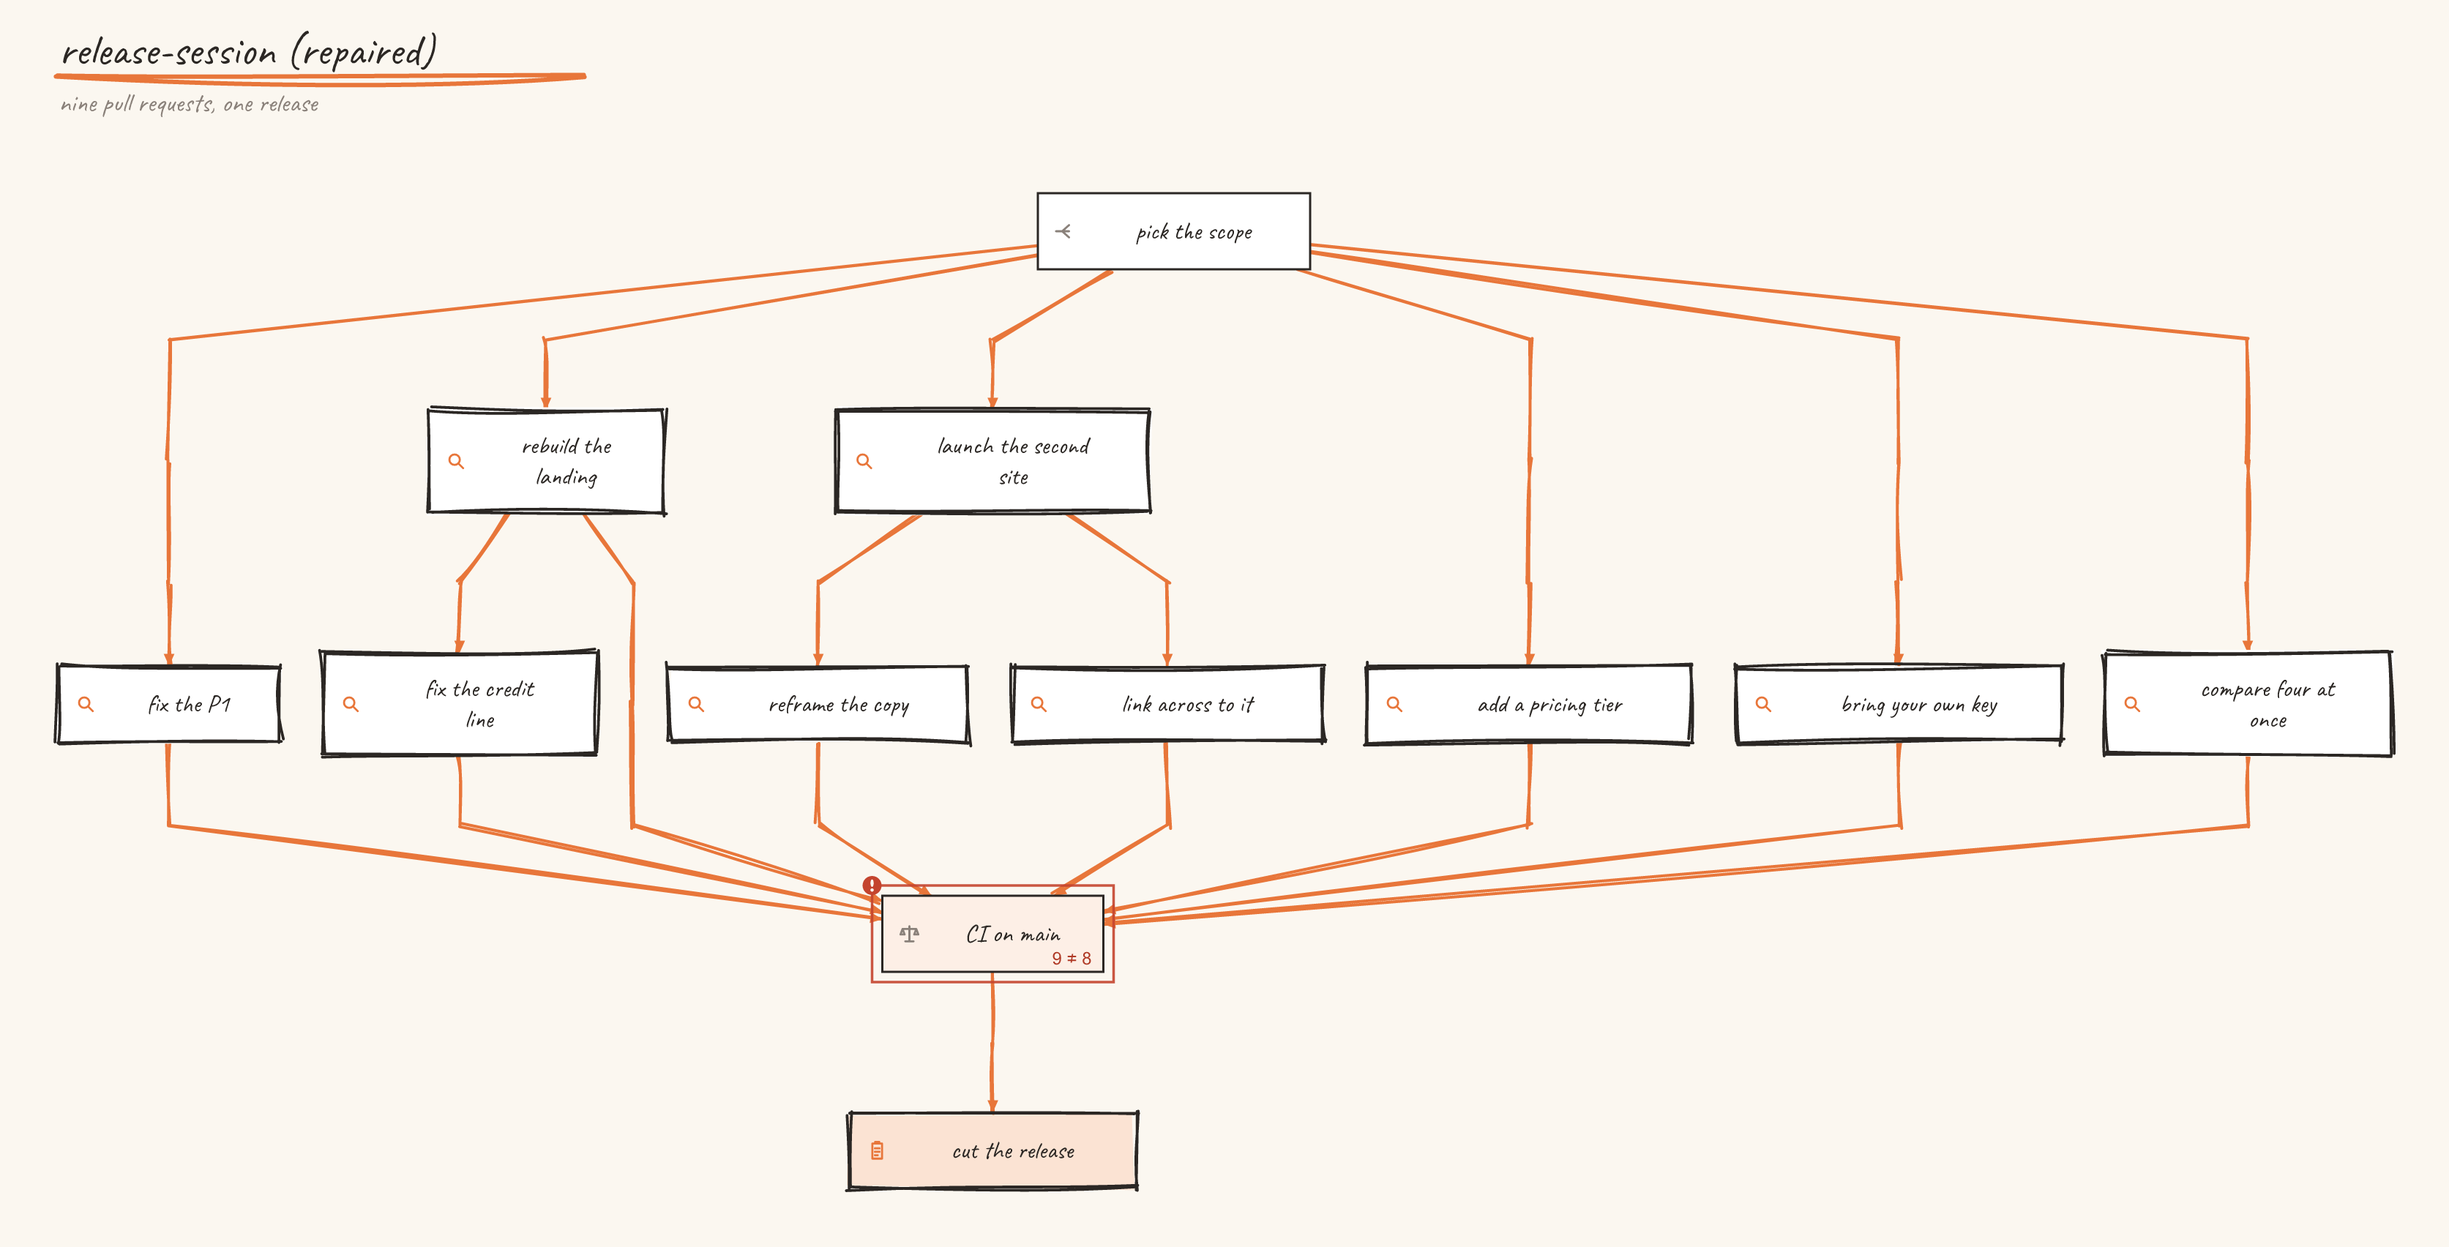
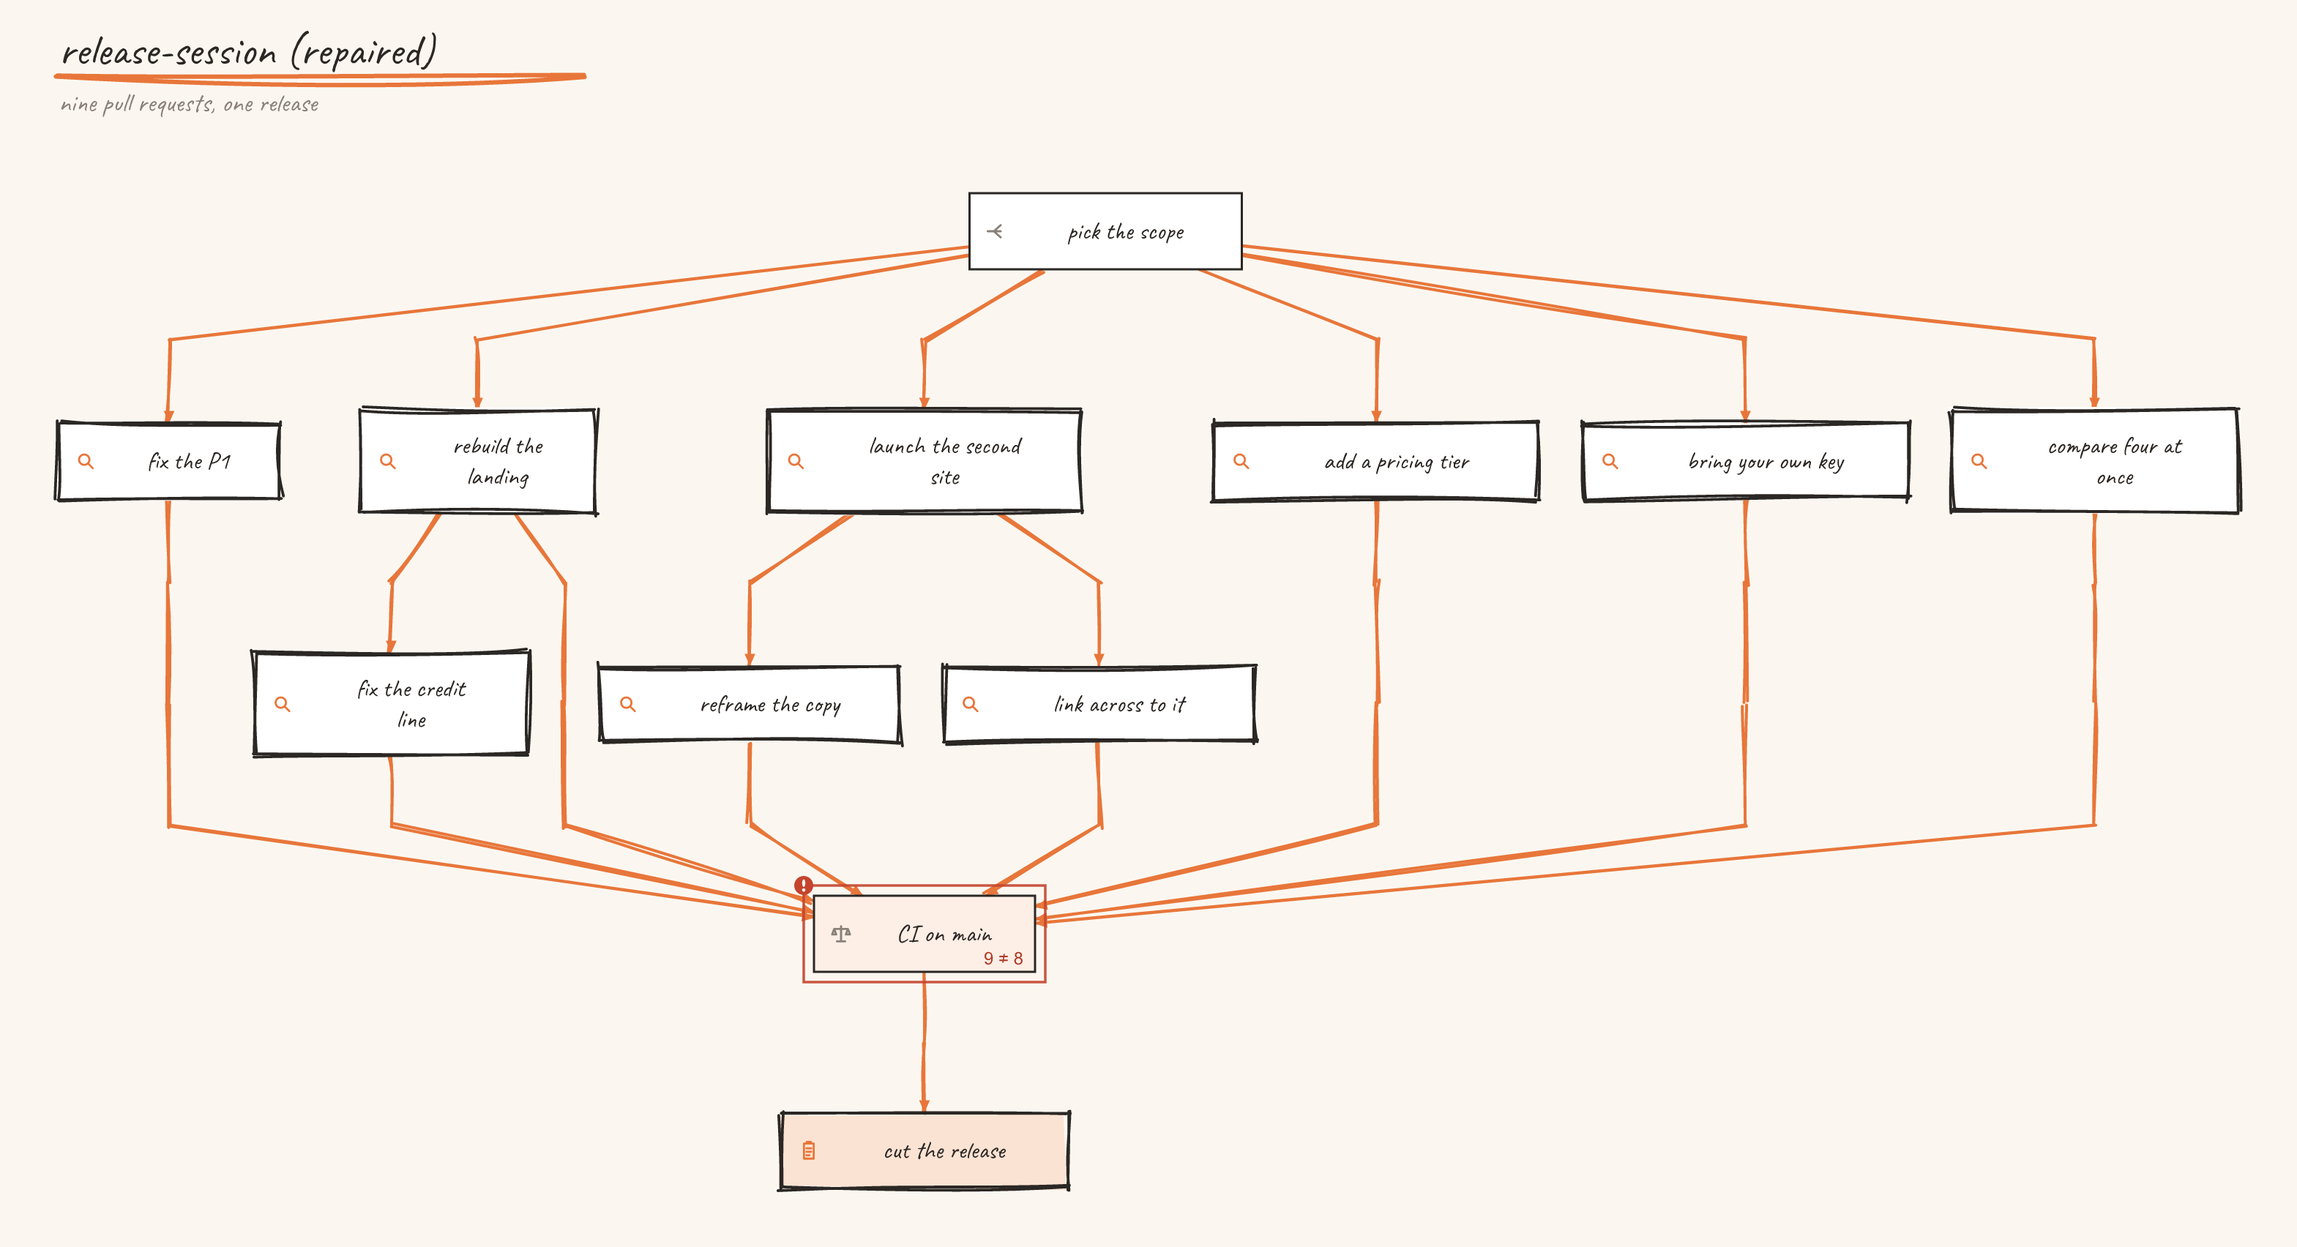
fix(layout) — draw every step on the row of its wave
dagre's longest-path ranker counts from the sinks, so a step nothing waits on
for a while sank to sit just above whatever reads it, a row or more below the
wave core ranks it in, and the legend's number disagreed with the row. Layout
now hands dagre core's ranks through a ranker of its own, reading dagre's
label stride off the edges, so pictures without such a step are unchanged to
the byte.

The structural check reads each box's row back off the rendered SVG and fails
when it is not the step's wave, and it now runs over every spec in the
repository: the examples, every test fixture and the plugin's template. The
repaired release-session picture is redrawn.

diff --git a/packages/render-svg/test/structure.test.ts b/packages/render-svg/test/structure.test.ts
@@ -1,5 +1,5 @@
 // SPDX-License-Identifier: Apache-2.0
-import { readdirSync } from "node:fs";
+import { existsSync, readdirSync } from "node:fs";
 import { fileURLToPath } from "node:url";
 import { buildGraph, parseSpec, withEdges, type Graph } from "@ccgrapher/core";
 import { loadGraph } from "@ccgrapher/core/node";
@@ -28,6 +28,25 @@ const desks = fileURLToPath(new URL("../../lint/test/fixtures/research-desk/", i
 const deskSpecs = readdirSync(desks)
   .filter((f) => f.endsWith(".yaml"))
   .map((f) => f.replace(/\.yaml$/, ""))
+  .sort();
+
+const root = fileURLToPath(new URL("../../../", import.meta.url));
+
+/** Every other spec in the repository: test fixtures anywhere, and the plugin's template. */
+const fixtureDirs = (["packages", "apps"] as const).flatMap((top) =>
+  readdirSync(`${root}${top}`)
+    .map((pkg) => `${root}${top}/${pkg}/test/fixtures/`)
+    .filter((dir) => existsSync(dir)),
+);
+const others = [
+  ...fixtureDirs.flatMap((dir) =>
+    readdirSync(dir, { recursive: true, encoding: "utf8" }).map((f) => `${dir}${f}`),
+  ),
+  ...readdirSync(`${root}plugin/skills`, { recursive: true, encoding: "utf8" }).map((f) => `${root}plugin/skills/${f}`),
+]
+  .filter((f) => f.endsWith(".yaml"))
+  .filter((f) => !f.startsWith(variants) && !f.startsWith(desks))
+  .map((f) => f.slice(root.length).replace(/\.yaml$/, ""))
   .sort();
 
 interface Render {
@@ -232,6 +251,7 @@ describe("structural lint over every example", () => {
     ...specs.flatMap((n) => renders(n)),
     ...variantSpecs.flatMap((n) => renders(n, variants)),
     ...deskSpecs.flatMap((n) => renders(n, desks)),
+    ...others.flatMap((n) => renders(n, root)),
     ...crowded(),
   ];
 
@@ -239,6 +259,13 @@ describe("structural lint over every example", () => {
     expect(specs.length).toBeGreaterThanOrEqual(6);
     expect(all.some((r) => r.label.endsWith("(repaired)"))).toBe(true);
     expect(all.some((r) => r.label.endsWith("(plain)"))).toBe(true);
+  });
+
+  it("covers every other spec in the repository too: the test fixtures and the plugin's template", () => {
+    expect(others).toContain("packages/lint/test/fixtures/ledger/plan-guarded");
+    expect(others).toContain("apps/cli/test/fixtures/run-gate");
+    expect(others).toContain("plugin/skills/parallel-plan/template");
+    for (const name of others) expect(all.some((r) => r.label === name)).toBe(true);
   });
 
   it("draws a mark for every rule somewhere in the suite, so the marks are checked too", () => {
@@ -268,6 +295,7 @@ describe("structural lint over every example", () => {
     ...specs.flatMap((n) => renders(n)),
     ...variantSpecs.flatMap((n) => renders(n, variants)),
     ...deskSpecs.flatMap((n) => renders(n, desks)),
+    ...others.flatMap((n) => renders(n, root)),
     ...crowded(),
   ];
     expect(again.map((r) => r.svg)).toEqual(all.map((r) => r.svg));
@@ -346,6 +374,12 @@ describe("the checker sees the real markup", () => {
     const end = svg.indexOf('<g data-node="audit"');
     const ghost = svg.slice(start, end).replace('data-node="discover"', 'data-node="ghost"');
     expect(geometry(svg.slice(0, end) + ghost + svg.slice(end)).map(keyOf)).toContain("node-overlap|discover / ghost");
+  });
+
+  it("flags a step drawn off the row of its wave", () => {
+    const moved = svg.replace(/(<g data-node="discover" [^>]*data-rank=")0"/, '$11"');
+    expect(moved).not.toBe(svg);
+    expect(geometry(moved).map(keyOf)).toContain("off-row|discover");
   });
 
   it("flags a label longer than its box", () => {

diff --git a/packages/render-svg/test/svg-structure.ts b/packages/render-svg/test/svg-structure.ts
@@ -2,7 +2,8 @@
 //
 // A structural lint over the SVG that `renderSvg` produces. It reads the markup
 // back and asks whether the picture is well formed: boxes apart, routes clear of
-// boxes, labels and text inside what holds them, colours readable. Core computes
+// boxes, labels and text inside what holds them, every step on the row of its
+// wave, colours readable. Core computes
 // ranks and layout computes pixels, so most of these faults should be impossible;
 // this exists to prove it, and to say so loudly the day a change breaks it.
 //
@@ -17,6 +18,7 @@ export type Rule =
   | "text-overflow"
   | "step-collision"
   | "legend-overlap"
+  | "off-row"
   | "contrast";
 
 export interface Violation {
@@ -31,6 +33,8 @@ export const keyOf = (v: Violation): string => `${v.rule}|${v.subject}`;
 
 /** Pixels of give for stroke width and the few px rough.js wobbles outside a nominal box. */
 const TOLERANCE = 3;
+/** Box centres closer than this share a row: rough.js wobble, not a separate row, which is a rank gap away. */
+const ROW_SLACK = 12;
 /** Advance width per character, as a fraction of font size: what `measureNode` plans with. */
 const BODY_CHAR_RATIO = DEFAULT_METRICS.charRatio;
 /** The header's own heuristic in render.ts (`HEADER_CHAR_RATIO`), which is not exported. */
@@ -166,6 +170,8 @@ interface SceneNode {
   /** Offset of the group that holds it, to bring layout coordinates into svg space. */
   readonly dx: number;
   readonly dy: number;
+  /** The wave core ranks it in (`data-rank`), when the markup says. */
+  readonly rank: number | undefined;
   /** The painted outline, as drawn. */
   readonly frame: Box;
   /** The fan-out copies and worktree halo drawn around the box. */
@@ -249,6 +255,7 @@ function readNode(g: El, dx: number, dy: number): SceneNode {
     id: g.attrs["data-node"]!,
     dx,
     dy,
+    rank: g.attrs["data-rank"] === undefined ? undefined : Number(g.attrs["data-rank"]),
     frame,
     extras,
     footprint: union([frame, ...extras]),
@@ -455,7 +462,31 @@ function checkGeometry(scene: Scene): Violation[] {
       }
     }
   }
+  out.push(...checkRows(scene));
   out.push(...checkSteps(scene));
+  return out;
+}
+
+/**
+ * Rows are read off the picture, not the layout: boxes whose centres sit within a
+ * few pixels of each other share a row (dagre centres a row, so boxes of different
+ * heights still line up), and rows count down from the top. Every step must be
+ * drawn on the row of its wave, the rank core gave it, or the picture and the
+ * legend's numbers disagree.
+ */
+function checkRows(scene: Scene): Violation[] {
+  const centre = (n: SceneNode) => (n.frame.y0 + n.frame.y1) / 2;
+  const ranked = scene.nodes.filter((n) => n.rank !== undefined).sort((a, b) => centre(a) - centre(b));
+  const out: Violation[] = [];
+  let row = -1;
+  let previous = Number.NEGATIVE_INFINITY;
+  for (const n of ranked) {
+    if (centre(n) - previous > ROW_SLACK) row++;
+    previous = centre(n);
+    if (row !== n.rank) {
+      out.push({ rule: "off-row", subject: n.id, detail: `${n.id} is in wave ${n.rank! + 1} but drawn on row ${row + 1}` });
+    }
+  }
   return out;
 }
 

diff --git a/packages/layout/src/layout.ts b/packages/layout/src/layout.ts
@@ -56,9 +56,13 @@ export const DEFAULT_LAYOUT = {
 } as const;
 
 /**
- * dagre with `ranker: "longest-path"` — the same layering core computes, so the
- * picture can never disagree with the number the linter prints. A test asserts
- * the two agree on every fixture rather than trusting that they do.
+ * dagre places the boxes, but it does not choose their rows: core's ranking is
+ * handed to it, so a step is drawn on the row of the wave it runs in and the
+ * picture can never disagree with the number the linter prints. dagre's own
+ * `longest-path` ranker measures from the sinks, so it pushes a step that
+ * nothing waits on long down to sit just above its consumer, a row or more below
+ * its wave. A test asserts the rows and the ranks agree on every spec in the
+ * repository rather than trusting that they do.
  *
  * No coordinate in this file is authored; they all come out of dagre or out of
  * the measured text.
@@ -72,7 +76,7 @@ export function layoutGraph(graph: Graph, options: LayoutOptions = {}): Position
   const ranking = rankGraph(graph);
 
   const d = new dagre.graphlib.Graph({ multigraph: true });
-  d.setGraph({ rankdir: "TB", ranksep: rankSep, nodesep: nodeSep, ranker: "longest-path" });
+  d.setGraph({ rankdir: "TB", ranksep: rankSep, nodesep: nodeSep, ranker: coreRanker(ranking) });
   d.setDefaultEdgeLabel(() => ({}));
 
   const measured = new Map<string, ReturnType<typeof measureNode>>();
@@ -117,6 +121,32 @@ export function layoutGraph(graph: Graph, options: LayoutOptions = {}): Position
 
   const oriented = orientToSpecOrder(nodes, edges, ranking);
   return normalise({ ...oriented, margin, ranking, graph });
+}
+
+/**
+ * A ranker for dagre that assigns core's ranks instead of computing its own.
+ * dagre leaves a spare rank between every pair of rows for edge labels, by
+ * stretching each edge's `minlen` before it ranks; the stride is read off those
+ * edges rather than assumed, and core's layer `r` becomes dagre rank `r * stride`.
+ * Anything that is not a step (dagre's own scaffolding node) goes above row 0.
+ *
+ * dagre accepts a function here at runtime; its typings only list the names of
+ * the built-in rankers, hence the cast.
+ */
+function coreRanker(ranking: Ranking): string {
+  const ranker = (g: dagre.graphlib.Graph): void => {
+    let stride = 1;
+    for (const e of g.edges()) {
+      if (ranking.rank.has(e.v) && ranking.rank.has(e.w)) {
+        stride = Math.max(stride, (g.edge(e) as { minlen?: number }).minlen ?? 1);
+      }
+    }
+    for (const id of g.nodes()) {
+      const r = ranking.rank.get(id);
+      (g.node(id) as { rank?: number }).rank = r === undefined ? -1 : r * stride;
+    }
+  };
+  return ranker as unknown as string;
 }
 
 /**

diff --git a/packages/layout/test/layout.test.ts b/packages/layout/test/layout.test.ts
@@ -1,4 +1,5 @@
 // SPDX-License-Identifier: Apache-2.0
+import { readdirSync } from "node:fs";
 import { fileURLToPath } from "node:url";
 import { buildGraph, rankGraph, withEdges, type Graph } from "@ccgrapher/core";
 import { loadGraph } from "@ccgrapher/core/node";
@@ -25,11 +26,20 @@ const ALL = [
   "wide-fanin",
 ] as const;
 
+/** Every example, not only the ones the geometry tests name. */
+const EVERY = readdirSync(examples)
+  .filter((f) => f.endsWith(".yaml"))
+  .map((f) => f.replace(/\.yaml$/, ""))
+  .sort();
+
 describe("the picture agrees with the linter", () => {
   // If dagre ever laid a node on a different row than core ranks it, the
   // diagram would contradict the layer count the lint report prints. This is
-  // the invariant that stops that happening quietly.
-  it.each(ALL)("%s: laid-out rows match core ranks exactly", (name) => {
+  // the invariant that stops that happening quietly. dagre's own longest-path
+  // ranker measures from the sinks and did exactly that to daily-brief and
+  // live-demo, so the rows come from core now. The render suite holds every
+  // other spec in the repository to the same rule.
+  it.each(EVERY)("%s: laid-out rows match core ranks exactly", (name) => {
     const graph = fixture(name);
     const positioned = layoutGraph(graph);
     const { rank } = rankGraph(graph);

diff --git a/README.md b/README.md
@@ -424,8 +424,9 @@ names a tier, never a model id: a target such as `claude-code` resolves it, so a
 stale when model names change.
 
 `--legend` numbers the steps in the order they run and lists them under the picture. The number is
-the wave, so steps that share one share a number and take a letter each in spec order: `2a` to `2e`
-for the diamond's five workers, which says what can run together. A fanned-out step is listed
+the wave, which is also the row its box is drawn on, so steps that share one share a number and take
+a letter each in spec order: `2a` to `2e` for the diamond's five workers, which says what can run
+together. A fanned-out step is listed
 once, with what it fans over and its cap. Each line gives the step's label and what it takes and
 gives, read from the field names in its `in` and `out` and shortened past three, so the legend is
 derived from the spec and cannot drift from the picture. In the SVG the number sits in a small
@@ -796,8 +797,9 @@ Two things worth knowing when reading its output:
 
 **The one invariant.** `core` computes *ranks*; `layout` computes *pixels*. The "6 layers → 4" figure
 in a lint report comes from `core` and never from the layout library, so the picture and the report
-cannot silently disagree. dagre runs with `ranker: "longest-path"` to match, and a test asserts the
-two agree on every fixture.
+cannot silently disagree. dagre is handed core's ranks rather than ranking the graph itself (its own
+`longest-path` ranker counts from the bottom and sinks a step towards whatever reads it), and a test
+asserts that every step is drawn on the row of its wave in every spec in the repository.
 
 `core`'s main entry is bundler-safe; filesystem helpers live at `@ccgrapher/core/node`. That's what
 lets the browser canvas run the identical linter.

diff --git a/CHANGELOG.md b/CHANGELOG.md
@@ -7,6 +7,18 @@ private web canvas, which has its own train. Full notes accompany each
 
 ## Unreleased
 
+- Every step is drawn on the row of its wave. Layout handed the ranking to dagre's own
+  `longest-path` ranker, which counts from the bottom, so a step nothing waits on for a while sank
+  to sit just above whatever reads it: in `daily-brief`, `check_destination` runs in wave 2 and was
+  drawn on row 6, and in the repaired `release-session`, four of the pull requests were drawn a row
+  below the wave they merge in. The legend numbers by wave, so in those pictures a step's number
+  and its row disagreed. Layout now gives dagre the ranks core computes, and dagre places the boxes
+  without choosing their rows. Pictures with no such step are unchanged to the byte;
+  `docs/release-session-after.svg` and its PNG are redrawn with six pull requests on one row.
+- The structural check over the rendered pictures reads each box's row off the picture and fails
+  when it is not the step's wave. It now runs over every spec in the repository, the linter's and
+  the CLI's test fixtures and the plugin's template included, and not only the examples.
+
 - `ccg explain <spec> -o page.html` writes one page that explains a spec in three panels. The full
   loop is the picture, numbered, with pan and zoom. One run, step by step lists the steps in the
   order they run, numbered as on the picture. What it is made of lists the files `ccg codegen`

diff --git a/packages/layout/README.md b/packages/layout/README.md
@@ -8,10 +8,12 @@ import { layoutGraph } from "@ccgrapher/layout";
 const { nodes, edges, width, height } = layoutGraph(graph);
 ```
 
-Wraps dagre with `ranker: "longest-path"` so the rows it produces match the ranks
-`@ccgrapher/core` computes — the drawing can never contradict the layer count the
-linter prints. Node sizes come from measuring the wrapped label, so no coordinate
-is ever authored by hand.
+Wraps dagre, but hands it the ranks `@ccgrapher/core` computes instead of letting it
+rank the graph, so every step is drawn on the row of its wave and the drawing can
+never contradict the layer count the linter prints. (dagre's own `longest-path`
+ranker counts from the bottom, so it would sink a step towards whatever reads it.)
+Node sizes come from measuring the wrapped label, so no coordinate is ever
+authored by hand.
 
 ---
 

diff --git a/CONTRIBUTING.md b/CONTRIBUTING.md
@@ -31,7 +31,9 @@ The linter's "6 layers → 4" figure comes from `core` and must never come from 
 or the diagram and the report could disagree without anyone noticing.
 
 `packages/layout/test/layout.test.ts` asserts that dagre's rows match `core`'s ranks on every
-fixture. If you change layout, that test is the one that matters.
+example, and the structural check in `packages/render-svg/test/structure.test.ts` reads each box's
+row back off the rendered picture for every spec in the repository. If you change layout, those
+are the tests that matter.
 
 ## Adding a lint rule
 
